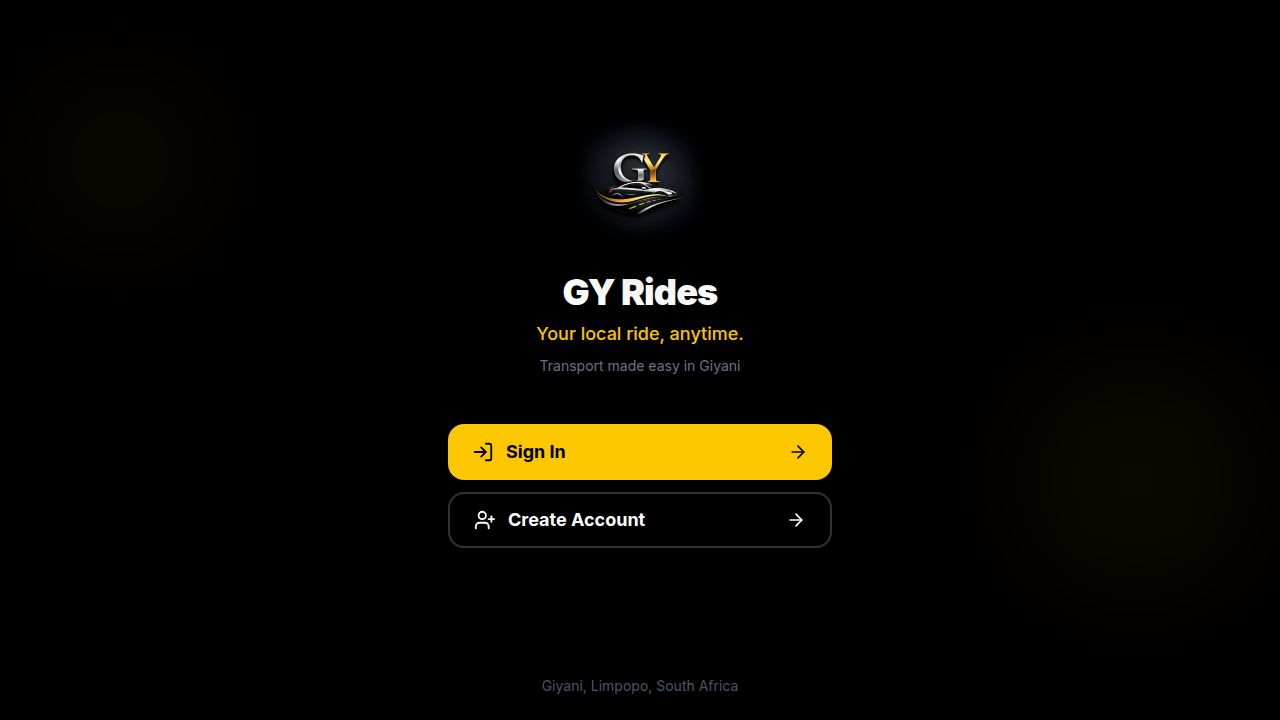
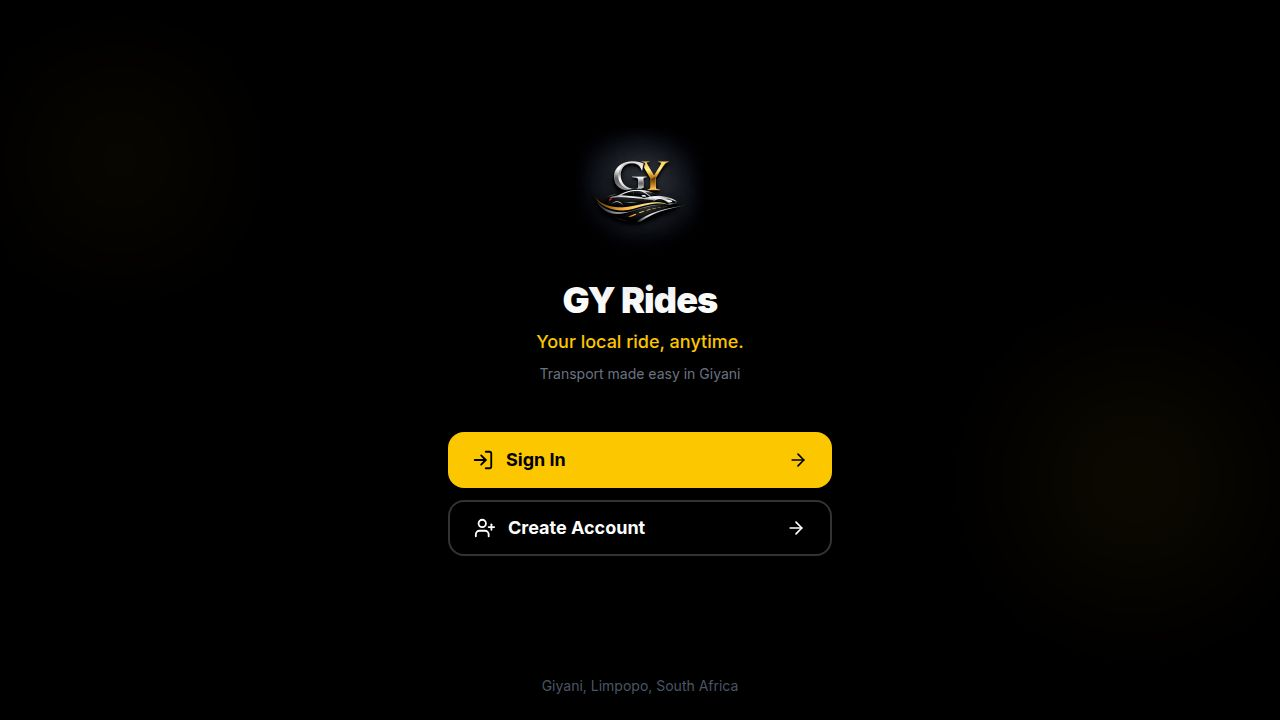
Add current location selection to rider app
Integrates GPS functionality to allow users to select their current location as a pickup or drop-off point on both the home screen and search view, leveraging the Geolocation API and reverse geocoding for address conversion.

Replit-Commit-Author: Agent
Replit-Commit-Session-Id: 077dda26-6e68-47f4-953b-b8c5ab764bef
Replit-Commit-Checkpoint-Type: full_checkpoint
Replit-Commit-Event-Id: e9fdb0d4-23fa-41bf-9a6b-a054fcf64123
Replit-Commit-Screenshot-Url: https://storage.googleapis.com/screenshot-production-us-central1/02c3ec18-1528-40b9-b513-4516bcf45e57/077dda26-6e68-47f4-953b-b8c5ab764bef/5WzfWAq
Replit-Helium-Checkpoint-Created: true

diff --git a/client/src/pages/RiderApp.tsx b/client/src/pages/RiderApp.tsx
@@ -1,6 +1,6 @@
 import { useState, useEffect, useCallback } from "react";
 import { useLocation } from "wouter";
-import { MapPin, Search, Clock, CreditCard, ChevronLeft, Star, Home as HomeIcon, Briefcase, ShoppingBag, User, History, BookmarkPlus, Car, LogOut, Menu, X, Navigation, Share2, Crosshair, Phone, MessageCircle, Shield, AlertTriangle, Edit2, Tag, StickyNote, RotateCcw, Download, Users, Package, Heart, Bus, Banknote, Wallet, Upload, CheckCircle, UserPlus, Minus, Plus, BadgeCheck } from "lucide-react";
+import { MapPin, Search, Clock, CreditCard, ChevronLeft, Star, Home as HomeIcon, Briefcase, ShoppingBag, User, History, BookmarkPlus, Car, LogOut, Menu, X, Navigation, Share2, Crosshair, Phone, MessageCircle, Shield, AlertTriangle, Edit2, Tag, StickyNote, RotateCcw, Download, Users, Package, Heart, Bus, Banknote, Wallet, Upload, CheckCircle, UserPlus, Minus, Plus, BadgeCheck, LocateFixed } from "lucide-react";
 import { Button } from "@/components/ui/button";
 import { Input } from "@/components/ui/input";
 import { Avatar, AvatarFallback } from "@/components/ui/avatar";
@@ -77,8 +77,57 @@ export default function RiderApp() {
   const [medicalNotes, setMedicalNotes] = useState("");
   const [parcelDescription, setParcelDescription] = useState("");
   const [trustedContactInput, setTrustedContactInput] = useState("");
+  const [locatingGPS, setLocatingGPS] = useState(false);
   const queryClient = useQueryClient();
   const { toast } = useToast();
+
+  const useCurrentLocation = useCallback((target: "pickup" | "dropoff") => {
+    if (!navigator.geolocation) {
+      toast({ title: "Not supported", description: "GPS is not available on this device", variant: "destructive" });
+      return;
+    }
+    setLocatingGPS(true);
+    navigator.geolocation.getCurrentPosition(
+      async (position) => {
+        const { latitude, longitude } = position.coords;
+        let name = `${latitude.toFixed(5)}, ${longitude.toFixed(5)}`;
+        let address = "Current location";
+        try {
+          const res = await fetch(`https://nominatim.openstreetmap.org/reverse?lat=${latitude}&lon=${longitude}&format=json`);
+          const data = await res.json();
+          if (data.display_name) {
+            const parts = data.display_name.split(",");
+            name = parts.slice(0, 2).join(",").trim();
+            address = parts.slice(0, 3).join(",").trim();
+          }
+        } catch {}
+        const loc = { name, address, lat: latitude, lng: longitude };
+        if (target === "pickup") {
+          setPickup(loc);
+          toast({ title: "Pickup set", description: name });
+        } else {
+          setDropoff(loc);
+          toast({ title: "Drop-off set", description: name });
+        }
+        setLocatingGPS(false);
+        if (target === "pickup" && view === "search") {
+          setSearchFor("dropoff");
+          setSearchQuery("");
+        } else if (target === "dropoff" && pickup) {
+          setView("confirm");
+        }
+      },
+      (error) => {
+        setLocatingGPS(false);
+        let msg = "Could not get your location";
+        if (error.code === 1) msg = "Location access denied. Please enable GPS in your browser settings.";
+        else if (error.code === 2) msg = "Location unavailable. Try again.";
+        else if (error.code === 3) msg = "Location request timed out. Try again.";
+        toast({ title: "Location error", description: msg, variant: "destructive" });
+      },
+      { enableHighAccuracy: true, timeout: 15000, maximumAge: 0 }
+    );
+  }, [pickup, view, toast]);
 
   useEffect(() => {
     if (!user || user.role !== "rider") {
@@ -721,7 +770,14 @@ export default function RiderApp() {
         </div>
         <div className="flex-1 overflow-auto">
           {searchQuery === "" && (
-            <div className="px-4 pb-2">
+            <div className="px-4 pb-2 space-y-1">
+              <Button variant="ghost" className="w-full justify-start h-14 rounded-xl gap-3 text-base" onClick={() => useCurrentLocation(searchFor)} disabled={locatingGPS} data-testid="btn-use-current-location">
+                <div className="bg-blue-100 p-2 rounded-lg"><LocateFixed className={`h-4 w-4 text-blue-600 ${locatingGPS ? "animate-pulse" : ""}`} /></div>
+                <div className="text-left">
+                  <div className="font-medium">{locatingGPS ? "Getting your location..." : "Use current location"}</div>
+                  <div className="text-xs text-gray-500">Use GPS to set your {searchFor === "pickup" ? "pickup" : "drop-off"}</div>
+                </div>
+              </Button>
               <Button variant="ghost" className="w-full justify-start h-14 rounded-xl gap-3 text-base" onClick={() => { setView("pickmap"); setPinDrop(null); }} data-testid="btn-pin-on-map">
                 <div className="bg-indigo-100 p-2 rounded-lg"><Crosshair className="h-4 w-4 text-indigo-600" /></div>
                 <div className="text-left">
@@ -1210,14 +1266,25 @@ export default function RiderApp() {
         </div>
 
         <div className="px-6 mb-4 space-y-2">
-          <button className="w-full bg-white rounded-2xl p-3.5 shadow-sm border border-gray-100 flex items-center gap-3 text-left" onClick={() => { setSearchFor("pickup"); setView("search"); }} data-testid="btn-set-pickup">
-            <div className="bg-green-500 p-2.5 rounded-xl"><Crosshair className="h-4 w-4 text-white" /></div>
-            <div className="flex-1 min-w-0">
-              <div className="font-bold text-sm">{pickup ? pickup.name : "Set pickup"}</div>
-              <div className="text-xs text-gray-500 truncate">{pickup ? pickup.address : "Tap to choose or pin on map"}</div>
-            </div>
-            {pickup && <div className="w-2.5 h-2.5 bg-green-500 rounded-full shrink-0" />}
-          </button>
+          <div className="flex gap-2">
+            <button className="flex-1 bg-white rounded-2xl p-3.5 shadow-sm border border-gray-100 flex items-center gap-3 text-left" onClick={() => { setSearchFor("pickup"); setView("search"); }} data-testid="btn-set-pickup">
+              <div className="bg-green-500 p-2.5 rounded-xl"><Crosshair className="h-4 w-4 text-white" /></div>
+              <div className="flex-1 min-w-0">
+                <div className="font-bold text-sm">{pickup ? pickup.name : "Set pickup"}</div>
+                <div className="text-xs text-gray-500 truncate">{pickup ? pickup.address : "Tap to choose location"}</div>
+              </div>
+              {pickup && <div className="w-2.5 h-2.5 bg-green-500 rounded-full shrink-0" />}
+            </button>
+            <button
+              className="bg-blue-500 hover:bg-blue-600 rounded-2xl p-3.5 shadow-sm flex items-center justify-center transition-colors disabled:opacity-50"
+              onClick={() => useCurrentLocation("pickup")}
+              disabled={locatingGPS}
+              data-testid="btn-gps-pickup"
+              title="Use GPS location"
+            >
+              <LocateFixed className={`h-5 w-5 text-white ${locatingGPS ? "animate-pulse" : ""}`} />
+            </button>
+          </div>
 
           <button className="w-full bg-white rounded-2xl p-3.5 shadow-sm border border-gray-100 flex items-center gap-3 text-left" onClick={() => { setSearchFor("dropoff"); if (!pickup) setPickup(GIYANI_LOCATIONS[2]); setView("search"); }} data-testid="btn-where-to">
             <div className="bg-black p-2.5 rounded-xl"><Search className="h-4 w-4 text-yellow-400" /></div>